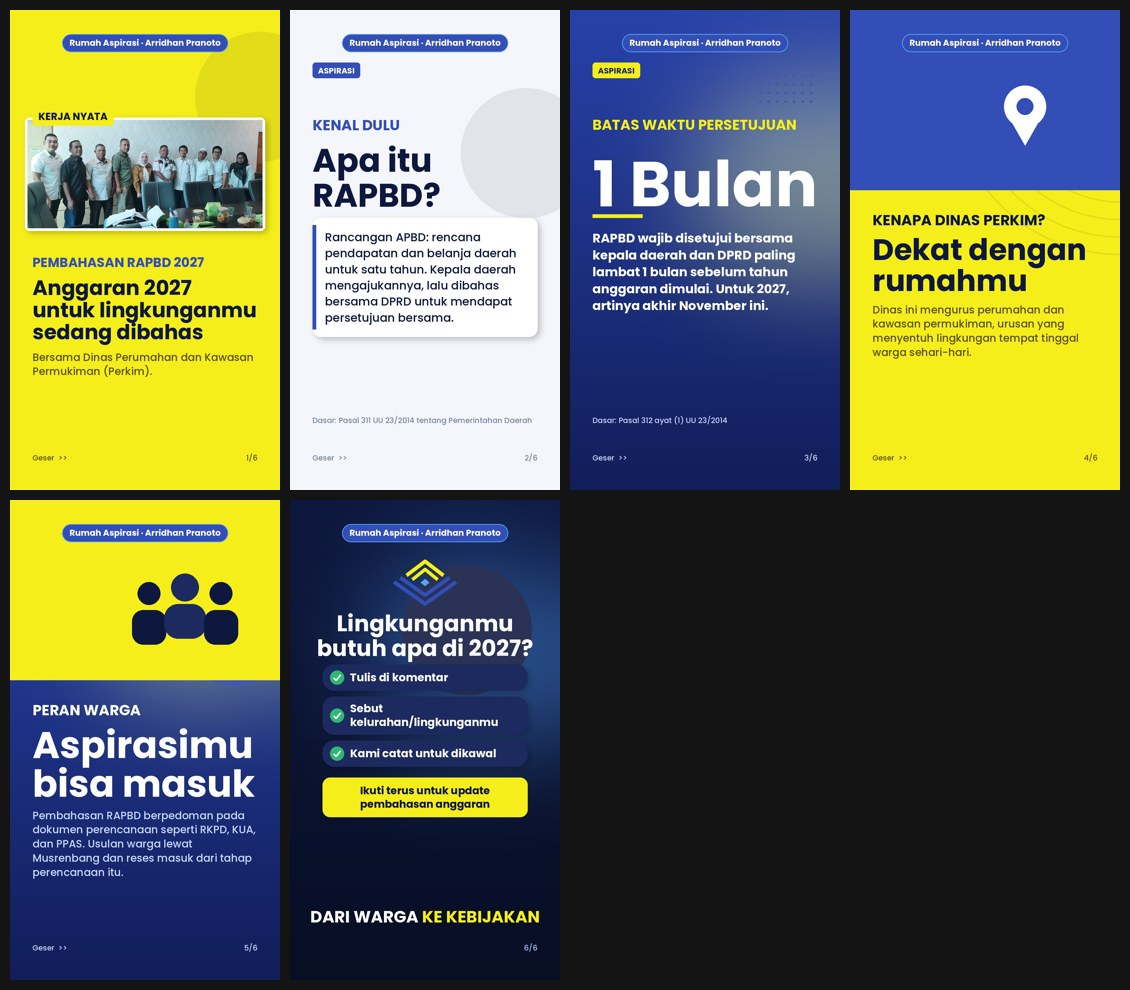
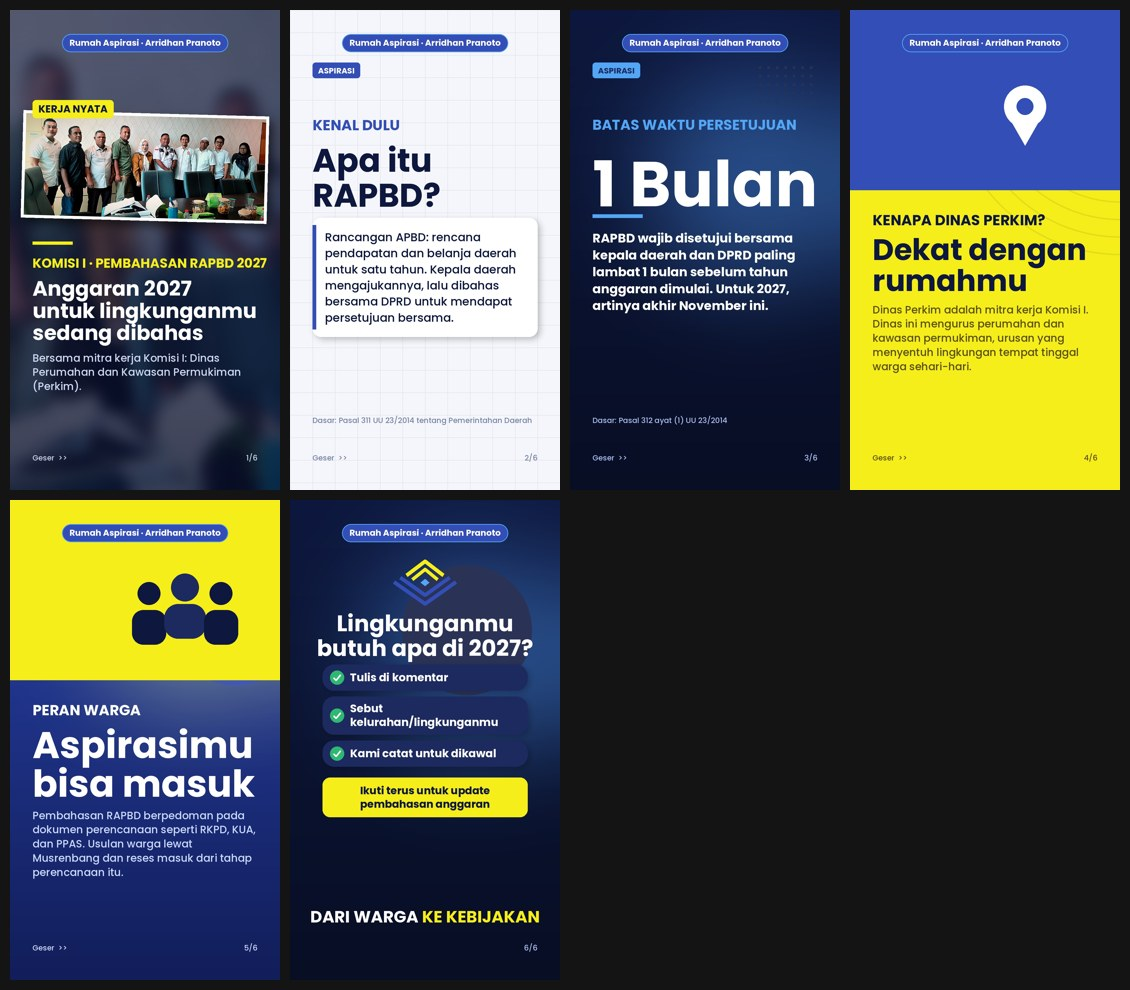
Foto diedit, tata letak foto sinematik, info Komisi I
Claude-Session: https://claude.ai/code/session_01WAQ5Mne9dKvh1CVUzK2z6A

Changed region(s): [[0.4956, 0.0, 0.7434, 0.5152], [0.0, 0.0, 0.2478, 0.5152], [0.7743, 0.303, 0.9602, 0.3939]]

diff --git a/tools/render.py b/tools/render.py
@@ -350,11 +350,27 @@ def s_photo(im, d, sl, p, theme, rnd):
     ph = Image.open(sl["src"]).convert("RGB")
     lay = sl.get("layout") or ("wide" if ph.width / ph.height > 1.2 else rnd.choice(["full", "frame"]))
     if lay == "wide":  # foto lanskap (foto bersama): tampil utuh, tidak terpotong
-        bw = 940; bh = int(bw * ph.height / ph.width)
-        ph = ph.resize((bw, bh)); top = 430
-        card(im, (60, top, 60 + bw + 20, top + bh + 20), WHITE, radius=18)
-        im.paste(ph, (70, top + 10)); d = ImageDraw.Draw(im)
-        y = top + bh + 110; fg, mu = p["fg"], p["mu"]
+        # latar: foto yang sama diperbesar + blur + lapisan navy -> kesan sinematik
+        r = max(W / ph.width, H / ph.height)
+        bg = ph.resize((int(ph.width * r + 1), int(ph.height * r + 1)))
+        bg = bg.crop(((bg.width - W) // 2, (bg.height - H) // 2, (bg.width - W) // 2 + W, (bg.height - H) // 2 + H)).filter(ImageFilter.GaussianBlur(28))
+        ov = np.asarray(bg, float) * .35 + np.array(NAVY, float) * .65
+        grad = np.linspace(0, 1, H)[:, None, None]
+        ov = ov * (1 - .35 * grad) + np.array((6, 10, 30), float) * .35 * grad
+        im.paste(Image.fromarray(np.clip(ov, 0, 255).astype(np.uint8)), (0, 0))
+        bw = 960; bh = int(bw * ph.height / ph.width)
+        ph = ph.resize((bw, bh), Image.LANCZOS); top = 400
+        # bingkai putih tipis + bayangan, sedikit miring agar dinamis
+        fr = Image.new("RGBA", (bw + 24, bh + 24), (255, 255, 255, 255)); fr.paste(ph, (12, 12))
+        fr = fr.rotate(rnd.choice([-2, -1.5, 1.5, 2]), expand=True, resample=Image.BICUBIC)
+        sh = Image.new("RGBA", im.size, (0, 0, 0, 0)); a_ = fr.split()[3]
+        sh.paste((0, 0, 0, 140), (int((W - fr.width) / 2) + 14, top + 22), a_); sh = sh.filter(ImageFilter.GaussianBlur(18))
+        im.paste(sh, (0, 0), sh); im.paste(fr, (int((W - fr.width) / 2), top), fr)
+        d = ImageDraw.Draw(im)
+        # aksen garis brand
+        d.rectangle((90, top + bh + 120, 250, top + bh + 132), fill=BRAND_Y)
+        y = top + bh + 170; fg, mu = WHITE, (205, 215, 240)
+        p = dict(p, ac=BRAND_Y)
         if sl.get("label"):
             f = font(40, "x"); w = d.textlength(sl["label"], font=f)
             d.rounded_rectangle((90, top - 40, 90 + w + 48, top + 32), radius=14, fill=BRAND_Y)
@@ -403,7 +419,7 @@ def render(spec, out):
         im = make_bg(p, rnd); decorate(im, p, theme, rnd)
         d = ImageDraw.Draw(im)
         d = LAYOUT[sl["type"]](im, d, sl, p, theme, rnd) or ImageDraw.Draw(im)
-        d = ImageDraw.Draw(im); badge(d, p); footer(d, i, n, p)
+        d = ImageDraw.Draw(im); badge(d, p); footer(d, i, n, dict(p, mu=(200, 210, 235)) if sl["type"] == "photo" else p)
         fn = os.path.join(out, f"slide_{i}.jpg"); im.save(fn, quality=92); files.append(fn)
     th = [Image.open(f).resize((270, 480)) for f in files]
     cols = min(4, n); rows = (n + cols - 1) // cols
